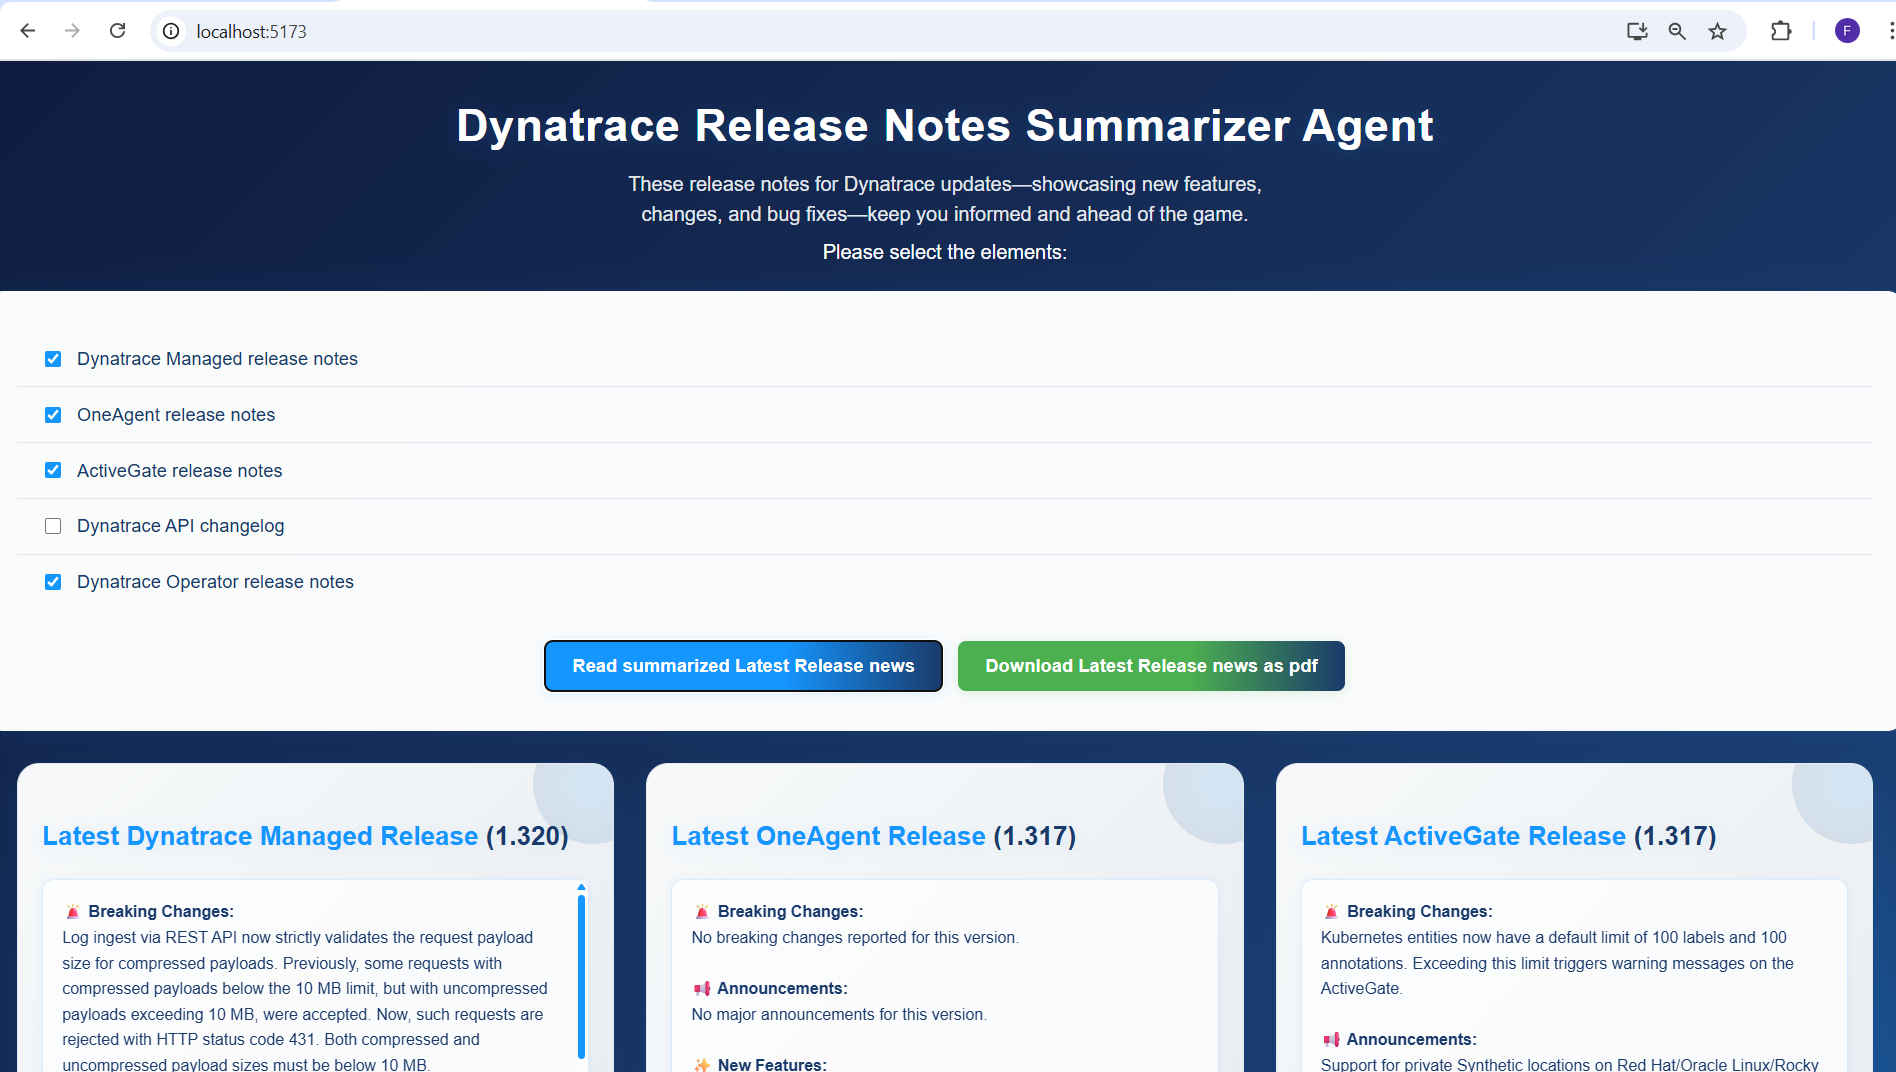
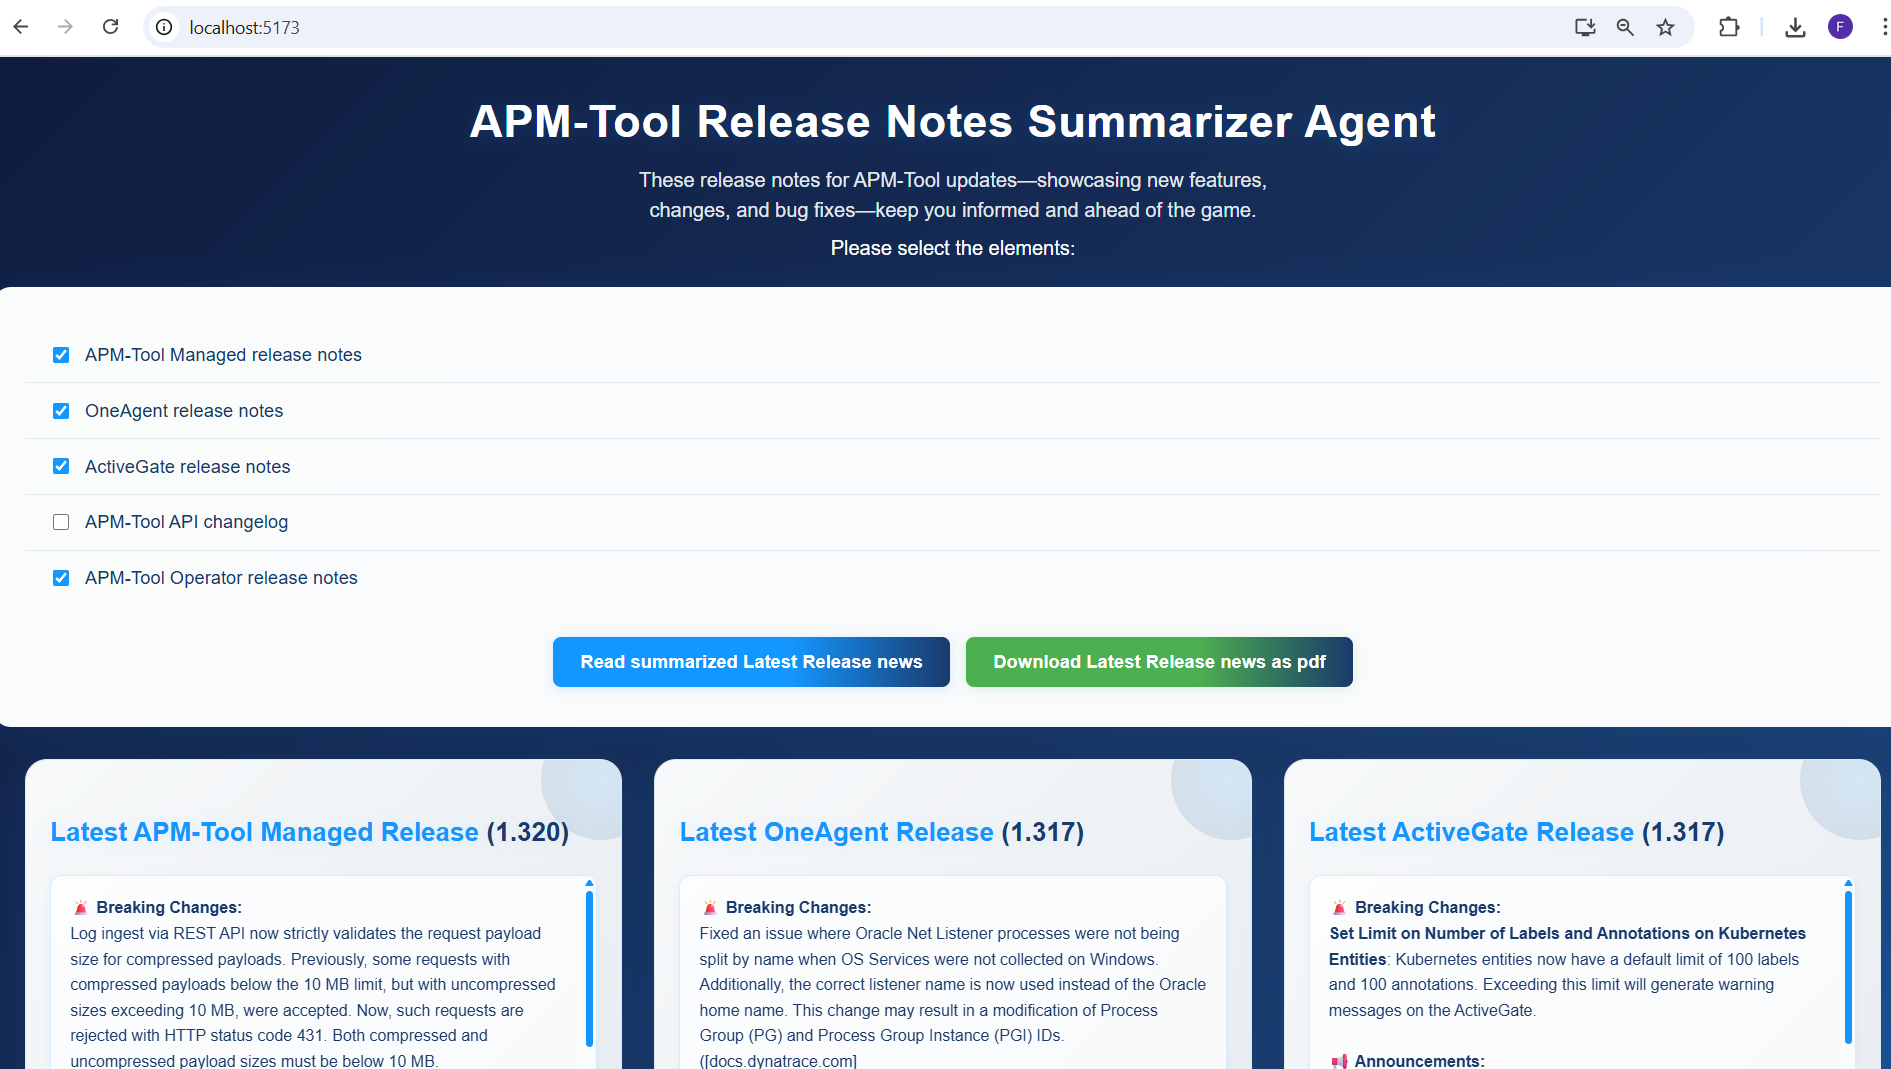
docs: update branding to APM-Tool and add new images
- Replace tool name in README.md
- Update frontend HTML title and meta description
- Add new release-summary-pdf.png image
- Update app-interface.png
- Remove old release-summary.png and notes.txt

diff --git a/frontend/src/App.jsx b/frontend/src/App.jsx
@@ -5,11 +5,11 @@ function App() {
   const [isLoading, setIsLoading] = useState(false);
 
   const releaseNoteItems = [
-    "Dynatrace Managed release notes",
+    "APM-Tool Managed release notes",
     "OneAgent release notes",
     "ActiveGate release notes",
-    "Dynatrace API changelog",
-    "Dynatrace Operator release notes"
+    "APM-Tool API changelog",
+    "APM-Tool Operator release notes"
   ];
   const [checkedItems, setCheckedItems] = useState(Array(releaseNoteItems.length).fill(false));
 
@@ -28,11 +28,11 @@ function App() {
     // Function to convert display name to element id
     const getElementId = (itemName) => {
       const idMap = {
-        "dynatrace_managed": "Dynatrace Managed release notes",
+        "dynatrace_managed": "APM-Tool Managed release notes",
         "oneagent": "OneAgent release notes",
         "active_gate": "ActiveGate release notes",
-        "dynatrace_api": "Dynatrace API changelog",
-        "dynatrace_operator": "Dynatrace Operator release notes"
+        "dynatrace_api": "APM-Tool API changelog",
+        "dynatrace_operator": "APM-Tool Operator release notes"
       };
       // Find the key that matches the itemName value
       const elementId = Object.keys(idMap).find(key => idMap[key] === itemName);
@@ -97,8 +97,8 @@ function App() {
         };
       };
 
-      // Check and add Dynatrace Managed data if available
-      const managedSummary = createStructuredSummary(data["dynatrace-managed"], "Dynatrace Managed");
+      // Check and add APM-Tool Managed data if available
+      const managedSummary = createStructuredSummary(data["dynatrace-managed"], "APM-Tool Managed");
       if (managedSummary) summaries.push(managedSummary);
       
       // Check and add OneAgent data if available
@@ -108,13 +108,13 @@ function App() {
       // Check and add ActiveGate data if available
       const activegateSummary = createStructuredSummary(data["active-gate"], "ActiveGate");
       if (activegateSummary) summaries.push(activegateSummary);
-      
-      // Check and add Dynatrace API data if available
-      const apiSummary = createStructuredSummary(data["dynatrace-api"], "Dynatrace API");
+
+      // Check and add APM-Tool API data if available
+      const apiSummary = createStructuredSummary(data["dynatrace-api"], "APM-Tool API");
       if (apiSummary) summaries.push(apiSummary);
       
-      // Check and add Dynatrace Operator data if available
-      const operatorSummary = createStructuredSummary(data["dynatrace-operator"], "Dynatrace Operator");
+      // Check and add APM-Tool Operator data if available
+      const operatorSummary = createStructuredSummary(data["dynatrace-operator"], "APM-Tool Operator");
       if (operatorSummary) summaries.push(operatorSummary);
       
       if (summaries.length > 0) {
@@ -157,7 +157,7 @@ function App() {
       
       // Extract filename from response headers or use default
       const contentDisposition = res.headers.get('Content-Disposition');
-      let filename = 'Dynatrace_Release_Notes.pdf';
+      let filename = 'APM-Tool_Release_Notes.pdf';
       if (contentDisposition) {
         const filenameMatch = contentDisposition.match(/filename="?(.+)"?/);
         if (filenameMatch) {
@@ -200,7 +200,7 @@ function App() {
           margin: 0,
           textShadow: '0 2px 16px rgba(20,150,255,0.18)',
         }}>
-          Dynatrace Release Notes Summarizer Agent
+          APM-Tool Release Notes Summarizer Agent
         </h1>
         <p style={{
           color: '#e3e8ee',
@@ -209,7 +209,7 @@ function App() {
           maxWidth: '700px',
           fontWeight: 400,
         }}>
-          These release notes for Dynatrace updates—showcasing new features, changes, and bug fixes—keep you informed and ahead of the game.<br />
+          These release notes for APM-Tool updates—showcasing new features, changes, and bug fixes—keep you informed and ahead of the game.<br />
           <span style={{ display: 'block', marginTop: '0.5rem', color: '#fff', fontWeight: 500 }}>Please select the elements:</span>
         </p>
       </header>

diff --git a/frontend/index.html b/frontend/index.html
@@ -9,8 +9,8 @@
     <link rel="icon" href="/favicon.ico" />
     <meta name="viewport" content="width=device-width, initial-scale=1.0" />
     <meta name="theme-color" content="#1496FF" />
-    <meta name="description" content="AI-powered tool for summarizing Dynatrace release notes across all components - OneAgent, ActiveGate, API, Operator, and Managed" />
-    <title>Dynatrace Release Notes Summarizer Agent</title>
+    <meta name="description" content="AI-powered tool for summarizing APM-Tool release notes across all components - OneAgent, ActiveGate, API, Operator, and Managed" />
+    <title>APM-Tool Release Notes Summarizer Agent</title>
   </head>
   <body>
     <div id="root"></div>

diff --git a/README.md b/README.md
@@ -11,7 +11,7 @@ The **APM-Tool Release Summarizer Agent** is an AI-powered web application desig
 *Interactive component selection interface with real-time validation*
 
 ### Release Summary Display
-![Release Summary Display](./images/release-summary.png)
+![Release Summary Display](./images/release-summary-pdf.png)
 *AI-generated structured summaries with categorized release information*
 
 ### Key Features
